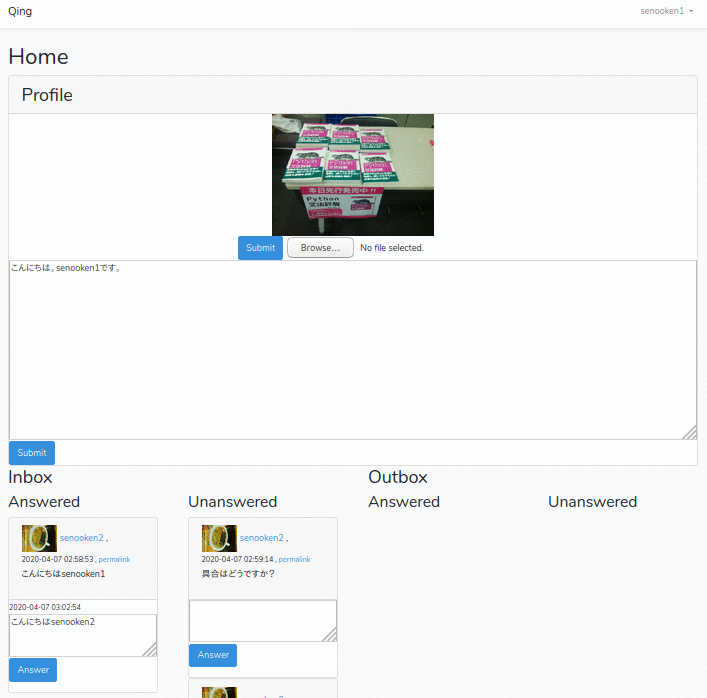
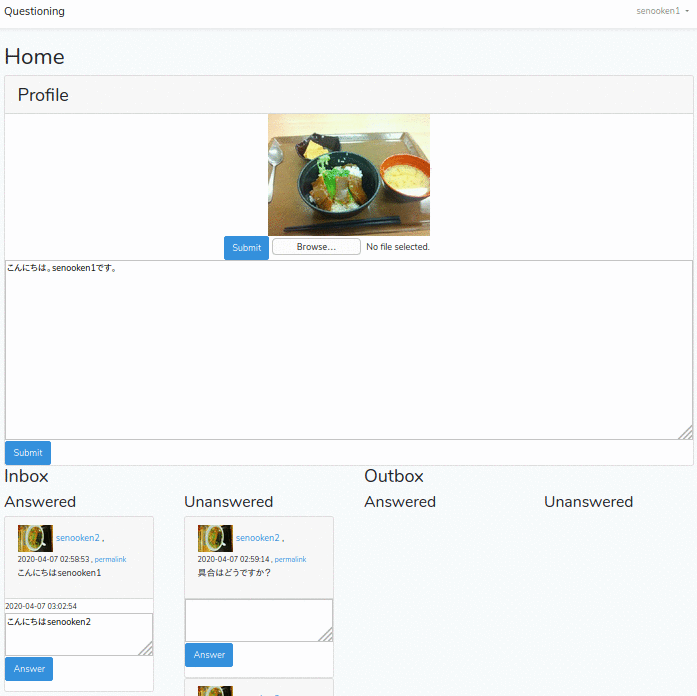
Rename project Qing to Questioning

diff --git a/resources/views/top.blade.php b/resources/views/top.blade.php
@@ -1,7 +1,7 @@
 @extends('layouts.app')
 
 @section('content')
-<h1>Qing</h1>
+<h1>Questioning</h1>
 <p>This is Question & Answer service.</p>
 <ol>
     <li><a href="{{url('home')}}">home</a></li>

diff --git a/README.md b/README.md
@@ -1,7 +1,7 @@
-# Qing
+# Questioning
 ![top](image/master/top.png)
 
-Qing is question and answer web application developed by Laravel 6 + PHP 7.
+Questioning is question and answer web application developed by Laravel 6 + PHP 7.
 
 Now developing...
 
